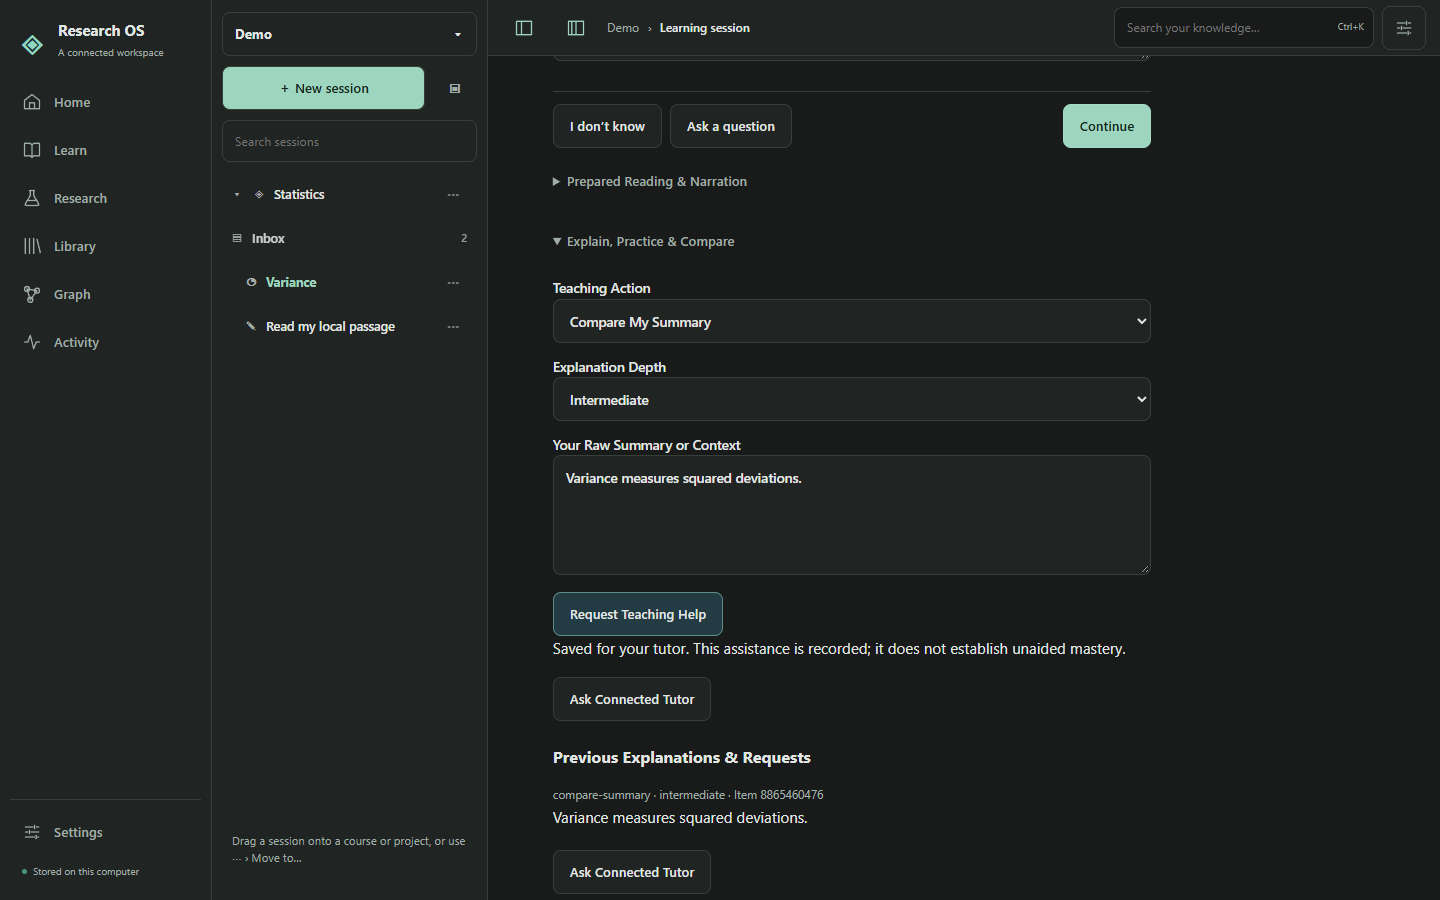
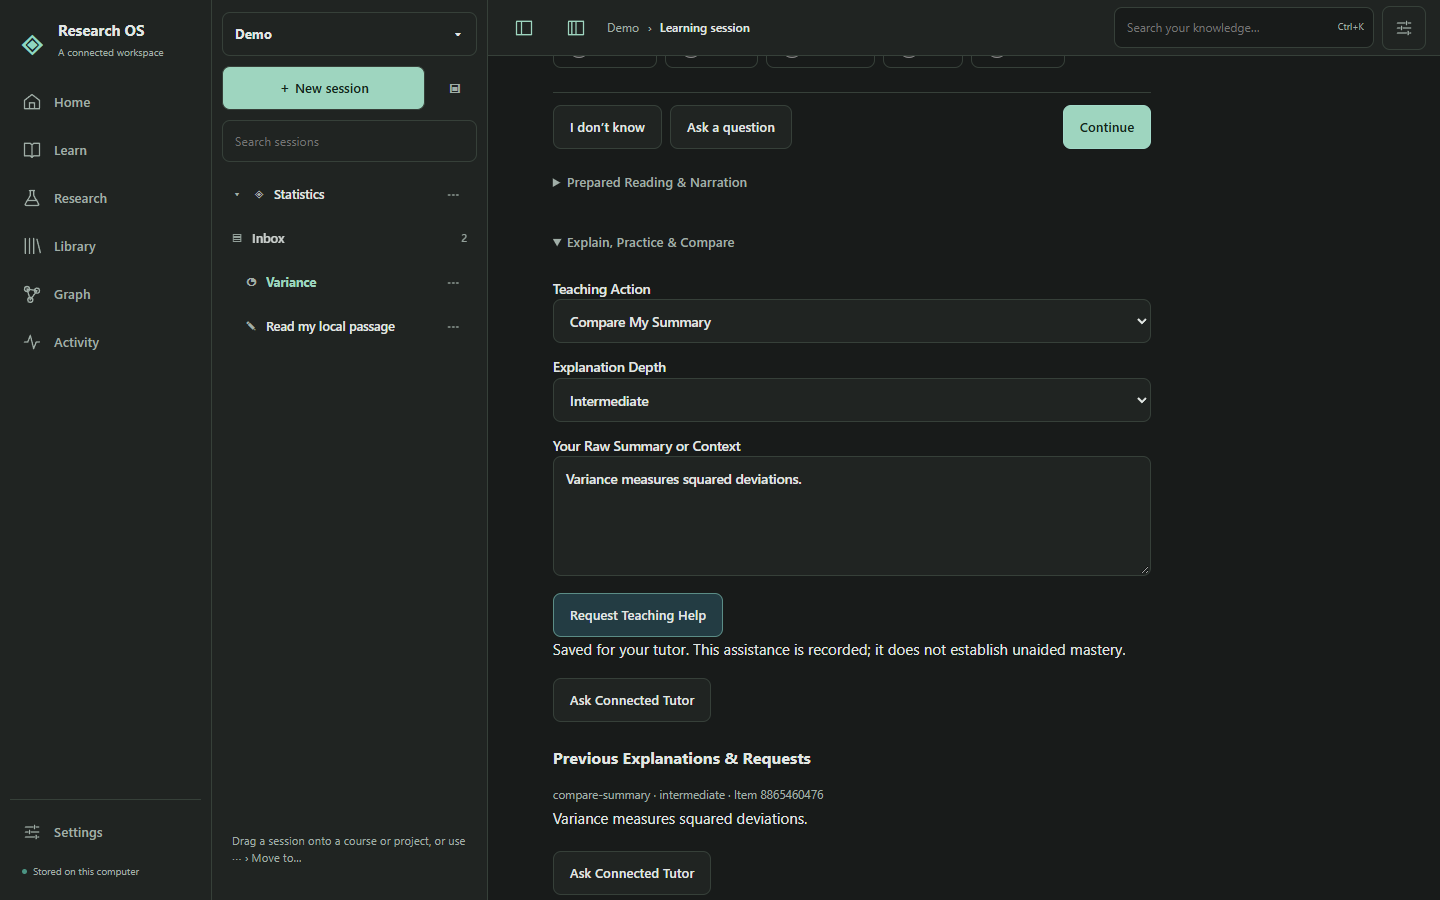
Acceptance record for 1.7.3: gate, installer and packaged smoke results

diff --git a/docs/desktop-rebuild/ACCEPTANCE-1.7.3.md b/docs/desktop-rebuild/ACCEPTANCE-1.7.3.md
@@ -1,0 +1,53 @@
+# Desktop 1.7.3 acceptance
+
+Verified 2026-11-06 on Windows 11 Pro, branch `fix/robustness-audit`. What changed and why: `docs/qa/ROBUSTNESS-AUDIT-2026-11-05.md`
+and the 1.7.3 section of `CHANGELOG.md`.
+
+## What 1.7.3 does
+
+- No silent failures: a tool that crashes returns a named internal error instead of dropping the session's connection (the Lecture 7
+  "ECONNRESET"); rubrics in any stored shape are read; Windows pipes are UTF-8 (no more `Â§`).
+- Supervision: the desktop restarts a backend that dies (3 times in 10 minutes, then says so); `ros mcp` swaps its worker when the
+  installed version changes; a record refuses writes from an older engine.
+- Network loss: a turn that loses its connection is retried (5, 20, 60 s) and says so; the app shows a connectivity banner; background
+  agents back off instead of failing tasks.
+- Agents: an hourly limit slider (1 to 100, or no limit); fair retries; a Code session entry point.
+- Handouts reach the vault only after the person accepts that version.
+- The safe renderer: unattended figures and ManimGX animations in a Windows AppContainer, image content through the bridge; sessions may
+  read connected sources (local-only ones never by a cloud model); Codex runs that are not Code sessions have no built-in tools.
+- Installer: the animation pack carries matplotlib; uninstalling removes the renderer's container registration, folder grants and
+  interpreter copy.
+
+## Evidence
+
+- `python -m unittest discover -s tests`: 1058 tests OK (9 skipped) at slice 4; the slices after it ran their modules
+  (`test_ros_render_sandbox` 36, `test_architecture`, `test_ros_desktop`, `test_ros_engine_version`, `test_ros_mcp_supervisor`): OK.
+- Hostile render scripts (profile, `.ssh`-style and outside reads, writes outside scratch, TCP to 1.1.1.1 and to a loopback listener,
+  `cmd`/`powershell`/`os.system`/`CreateProcess`, a planted DLL, a junction) all fail, checked against the world, not the script's report.
+- Real models: `claude:sonnet` and `codex:gpt-6.1-sol` each took a `visual` task through `dispatch_once`, drew, looked and published.
+  Codex with the person's own configuration had a Node REPL and web search in a "no tools" run; with the private home, the same probes
+  could not read, run, fetch or write.
+- Animation pack, end to end: with only the pack's Python allowed (as on a computer without Python), `renderkit.check` found it with
+  matplotlib 3.11.2, the runtime was prepared, a figure rendered in the container (its network and profile attempts refused), and
+  `--worker render-cleanup` revoked the ManimGX grant, removed the runtime and scratch and unregistered the profile. The frozen backend
+  runs the same worker.
+- `build-voice.py`: kokoro, faster-whisper, ManimGX and a headless matplotlib draw from the packed Python: all ok (pack 1483 MB).
+- `python desktop/verify.py`: python, frontend tests, typecheck, frontend build, the four browser journeys, the workspace benchmark and
+  the packaged lifecycle: all exit 0.
+- Installer built with a real `desktop/node_modules` (no `cannot find path for dependency` warning; `app.asar` holds `fs-extra`);
+  `latest.yml` names version 1.7.3.
+- Packaged 1.7.3 build: `desktop_frozen_smoke.py` (185 CLI tools, no Python on PATH, compute works), `desktop_native_smoke.py` (starts
+  in 7.5 s as version 1.7.3), `desktop_updater_smoke.py` and `--corrupt`: all exit 0.
+
+## Not verified
+
+- A real NSIS uninstall running the hook: `desktop_installer_smoke.py` refuses to run on a computer with a Research OS install
+  registered, and this one has one. The hook's path is tested against the path the app launches, and the worker itself ran frozen.
+- The Electron backend-restart flow (crash, restart, give-up dialog) is unit-tested, not run against a killed packaged backend.
+- A `ros mcp` server that is already running keeps its old supervisor until its client restarts it; from then on it updates itself.
+
+## Limits
+
+- The renderer is a user-mode boundary (no defence against a Windows kernel exploit); Windows only; Manim Community, LaTeX and Mermaid
+  are not rendered in it. Residual risks are listed in the audit.
+- Updates are not code-signed, as in 1.7.2.
